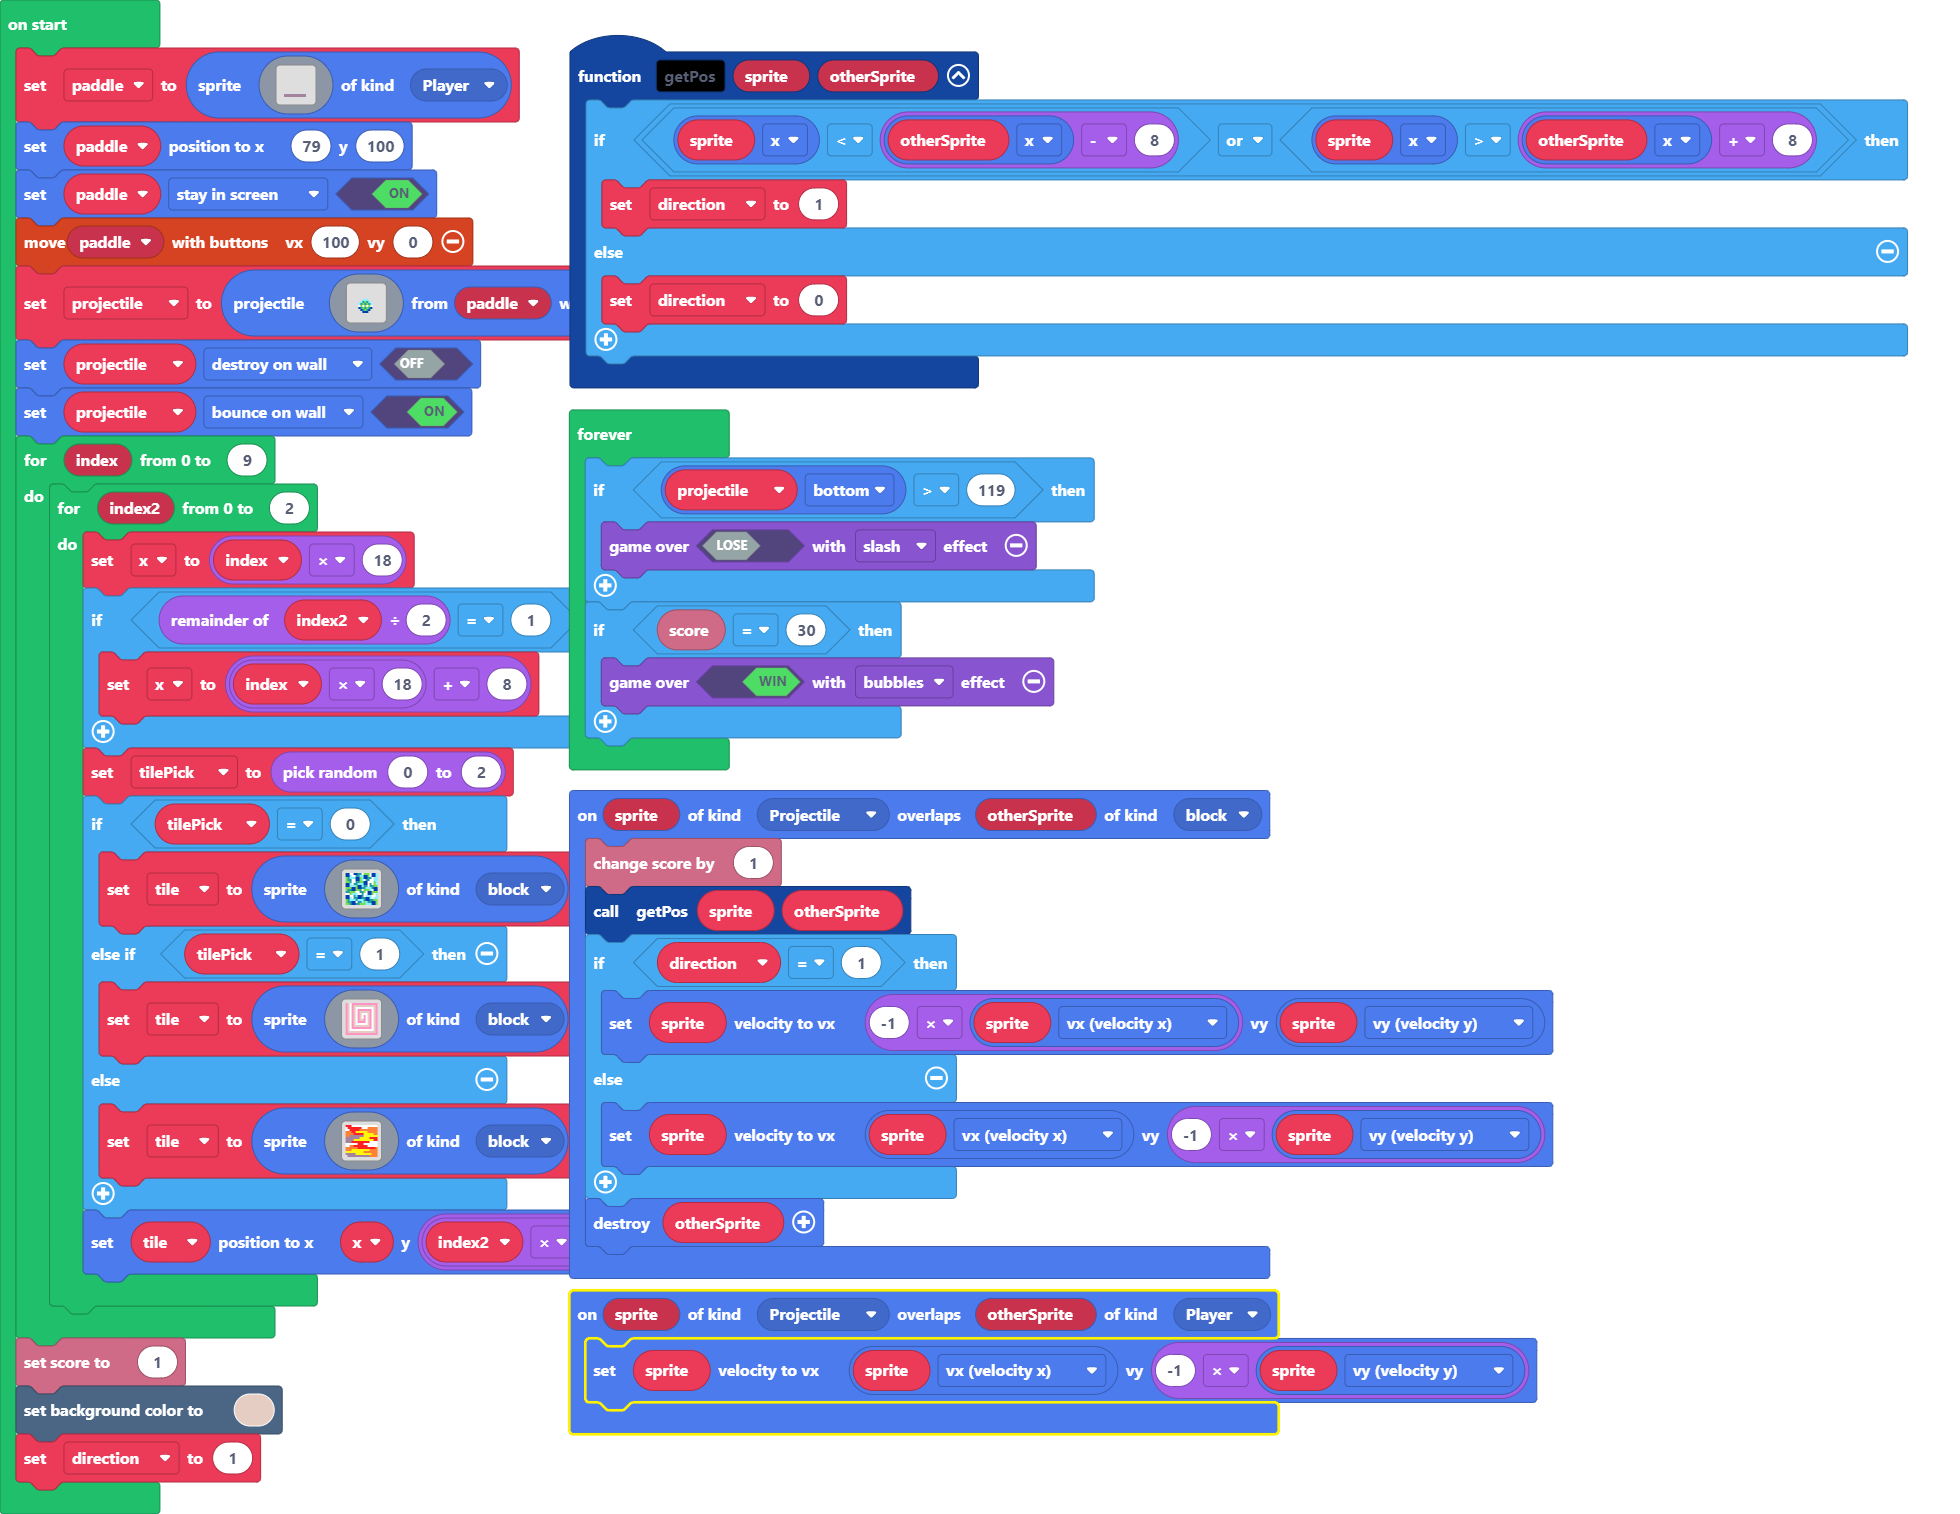
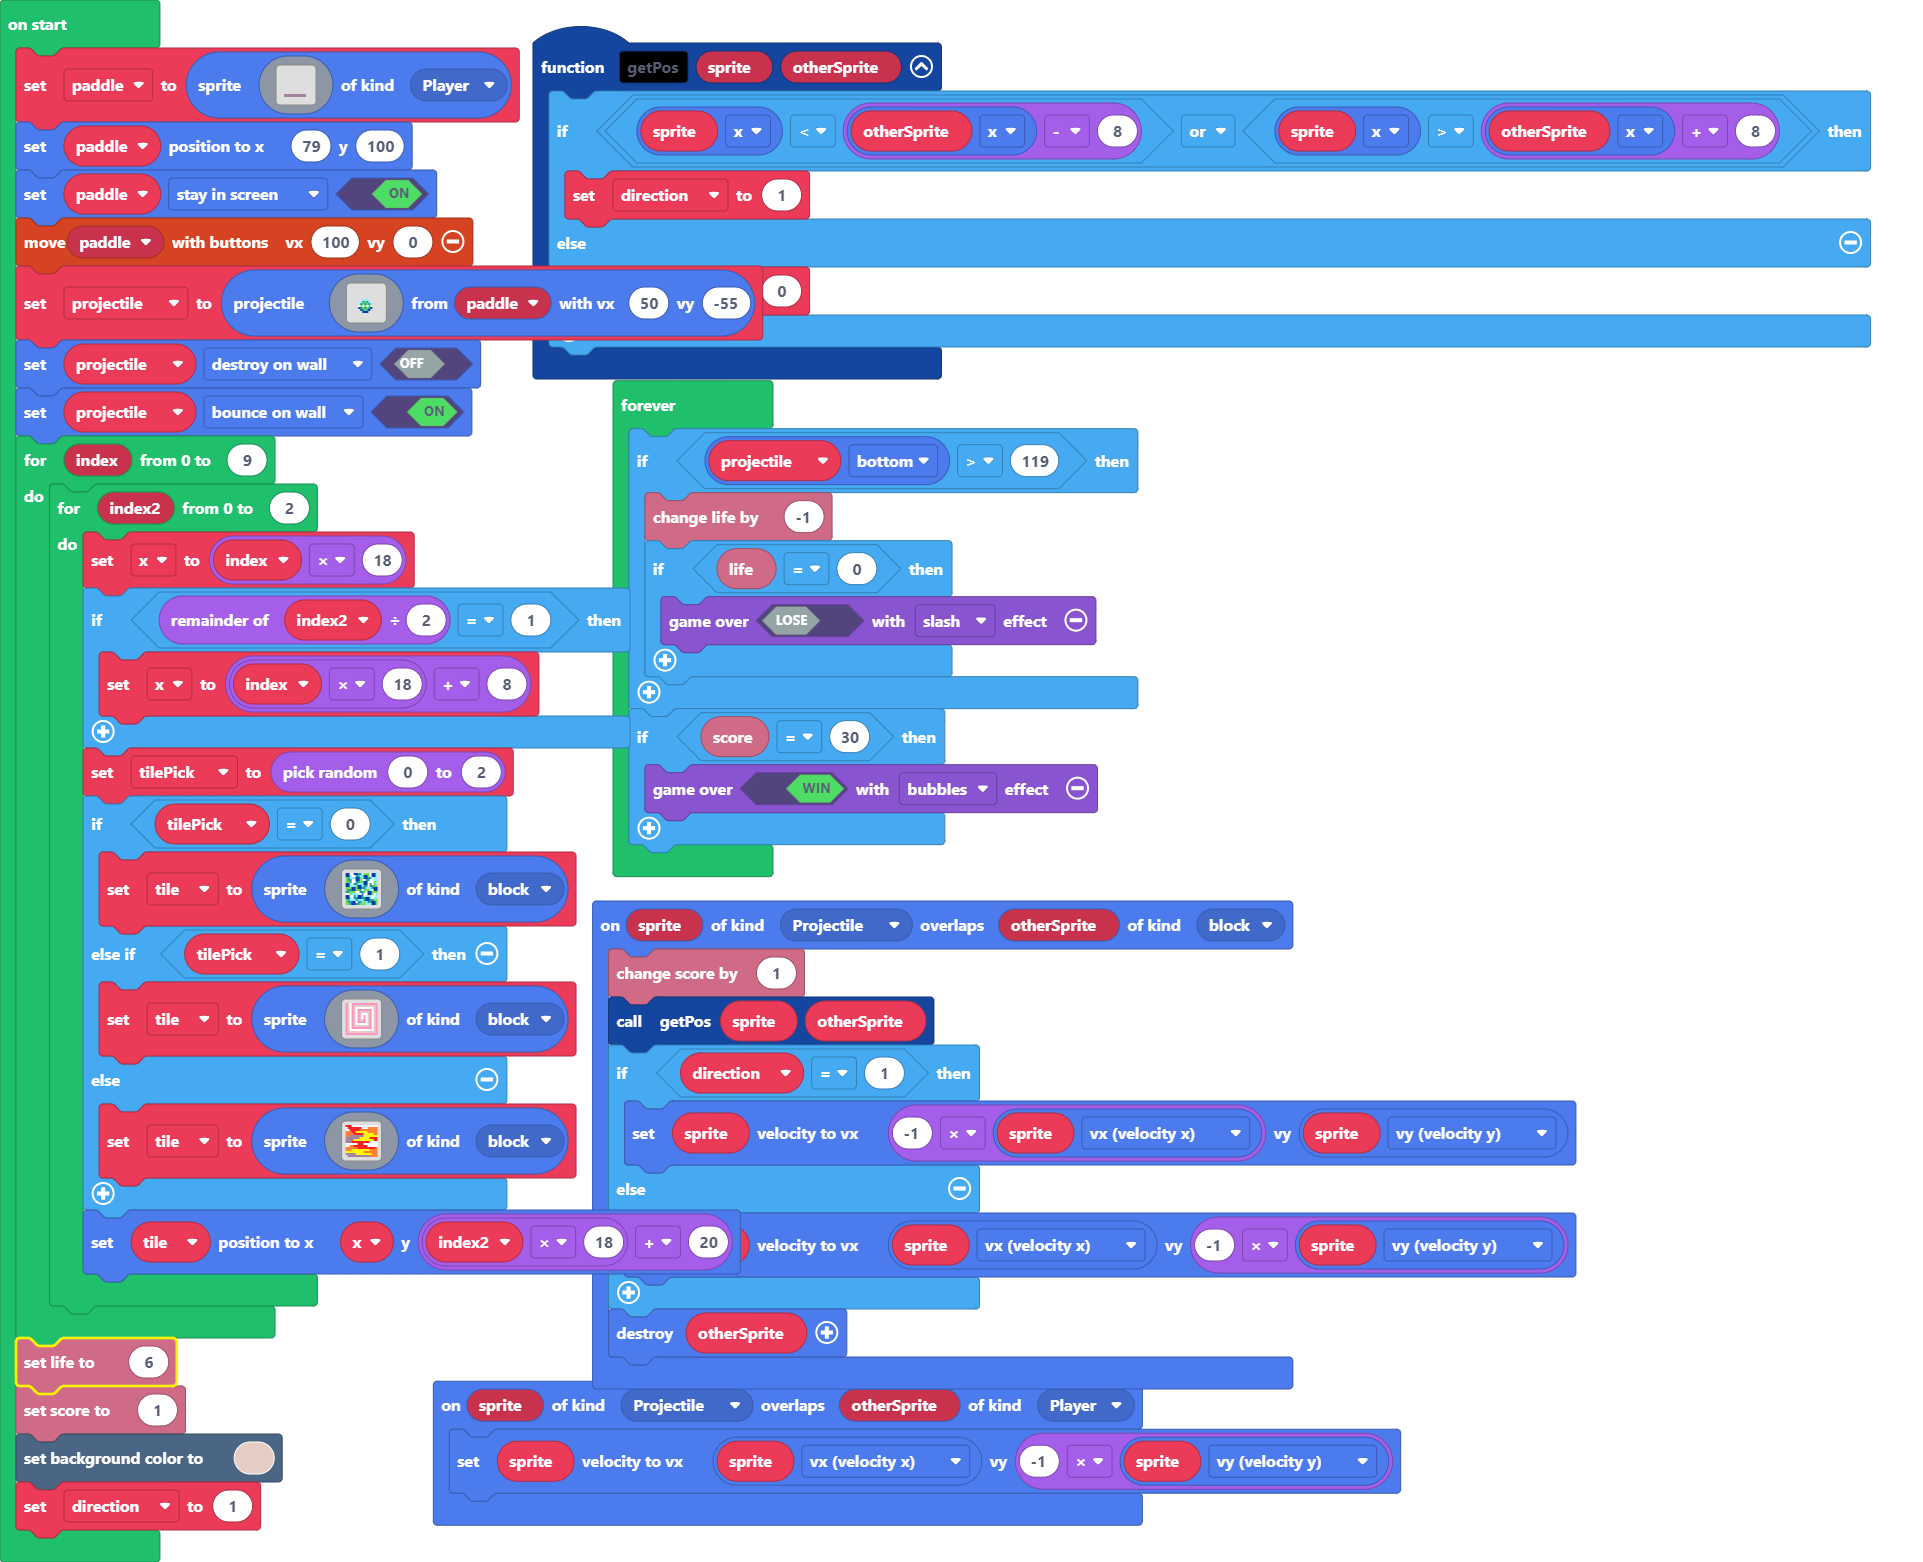
Added lives

diff --git a/main.ts b/main.ts
@@ -150,12 +150,16 @@ b b b b b 5 5 5 5 5 5 5 5 4 4 4
         tile.setPosition(x, index2 * 18 + 20)
     }
 }
+info.setLife(6)
 info.setScore(1)
 scene.setBackgroundColor(13)
 direction = 1
 forever(function () {
     if (projectile.bottom > 119) {
-        game.over(false, effects.slash)
+        info.changeLifeBy(-1)
+        if (info.life() == 0) {
+            game.over(false, effects.slash)
+        }
     }
     if (info.score() == 30) {
         game.over(true, effects.bubbles)
